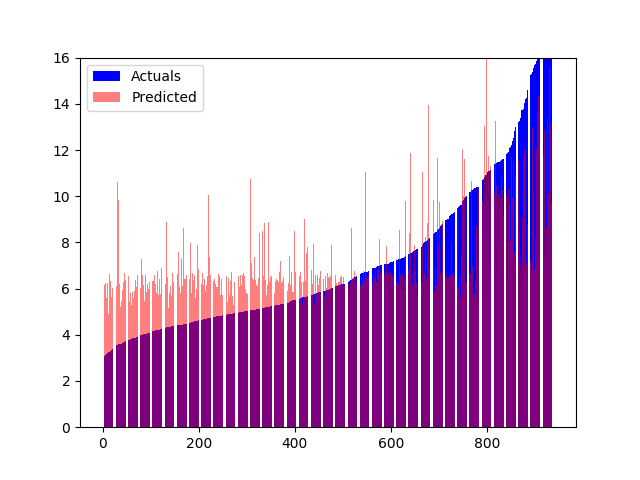
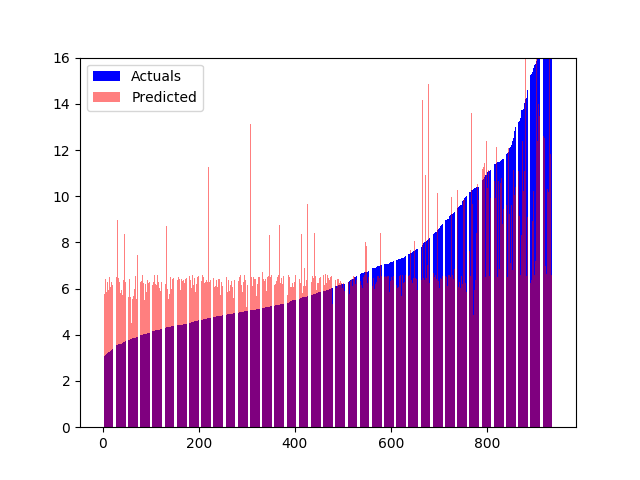
Added new graph

Changed region(s): [[0.1562, 0.4062, 0.7188, 0.625], [0.7188, 0.1875, 0.875, 0.5625], [0.8125, 0.5312, 0.875, 0.5938]]

diff --git a/gcn_model/model.py b/gcn_model/model.py
@@ -56,7 +56,7 @@ class Net(torch.nn.Module):
 
 		
 		x = F.relu(self.lin1(x))
-		x = F.dropout(x, p=.7, training = self.training)
+		x = F.dropout(x, p=.75, training = self.training)
 		x = F.relu(self.lin2(x))
 		x = F.dropout(x, p=.9, training = self.training)
 		x = self.lin3(x)
@@ -83,7 +83,7 @@ def main():
 	model = Net(11).to(device)
 	criterion = torch.nn.MSELoss()
 	optimizer = torch.optim.Adam(model.parameters(), lr=5E-4)
-	epoch = 100
+	epoch = 400
 	print("Starting Training:")
 	print("*"*40)
 	for i in range(epoch):

diff --git a/gcn_model/pearson_test.py b/gcn_model/pearson_test.py
@@ -1,7 +1,7 @@
 from scipy import stats
 
 def main():
-	values = open("vals2_1.log",'r')
+	values = open("vals2_2.log",'r')
 	actual = []
 	predicted = []
 
